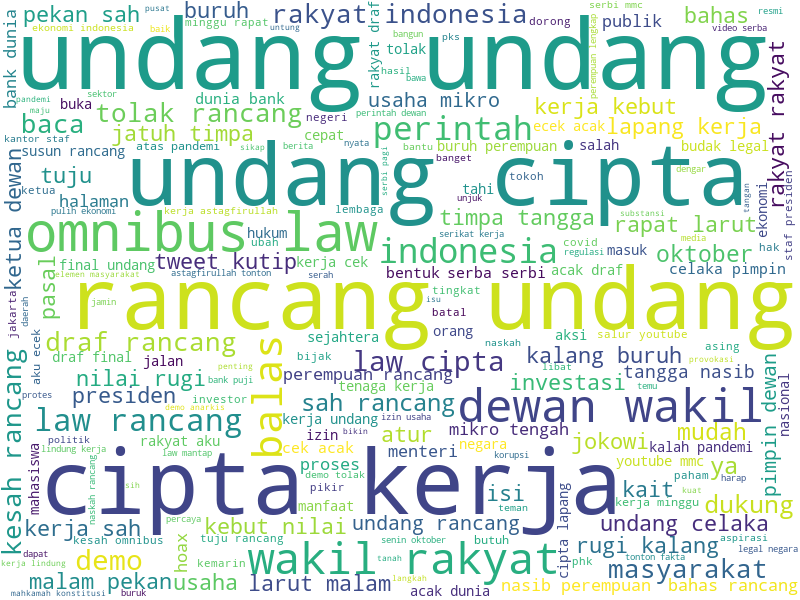
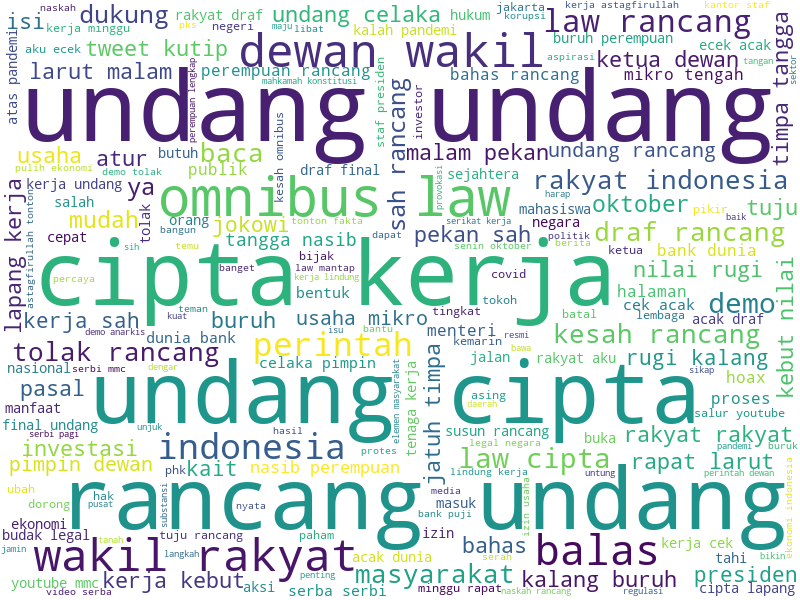
add analysis result

diff --git a/apps/templates/result.html b/apps/templates/result.html
@@ -1,0 +1,53 @@
+{% extends 'base/layout.html' %} 
+{% block content_sidebar %}
+    <!-- Main content -->
+    <section class="content">
+        <div class="row">
+            <div class="col-12">
+                <div class="card">
+                    <div class="card-body">
+                    
+                                {% set sesuai=namespace(value=0) %}
+                                {% set tdk_sesuai=namespace(value=0) %}
+                        <table id="example2" class="table table-bordered table-hover">
+                            <thead>
+                                <tr>
+                                    <th>Tweet</th>
+                                    <th class="text-center" width="60px">Analisis Manual</th>
+                                    <th class="text-center" width="60px">Analisis Sistem</th>
+                                    <th class="text-center" width="100px">Validasi</th>
+                                </tr>
+                            </thead>
+                            <tbody>
+                                {% for dt in data %}
+                                    <tr>
+                                        <td>{{dt.tweet}}</td>
+                                        <td class="text-center"> {% if dt.analysis_manual == 0 %} Negatif {% else %} Positif {% endif %} </td>
+                                        <td class="text-center"> {% if dt.analysis_system == 0 %} Negatif {% else %} Positif {% endif %} </td>
+                                        <td class="text-center">
+                                            {% if dt.analysis_system == dt.analysis_manual %}
+                                                {% set sesuai.value = sesuai.value + 1 %} 
+                                                <strong class="badge badge-success p-2"> Sesuai </strong> 
+                                            {% else %}
+                                                {% set tdk_sesuai.value = tdk_sesuai.value + 1 %} 
+                                                <strong class="badge badge-danger p-2"> Tidak Sesuai </strong> 
+                                            {% endif %} 
+                                        </td>
+                                        </td>
+                                    </tr>
+                                {% endfor %}
+                            </tbody>
+                        </table>
+                        <strong class="badge badge-success p-2"> Sesuai : {{ sesuai.value }}</strong>  
+                        <strong class="badge badge-danger p-2"> Tidak Sesuai : {{ tdk_sesuai.value }}</strong> 
+                    </div>
+                    <!-- /.card-body -->
+                </div>
+                <!-- /.card -->
+            </div>
+            <!-- /.col -->
+        </div>
+        <!-- /.row -->
+    </section>
+    <!-- /.content -->
+{% endblock content_sidebar %}

diff --git a/apps/templates/base/layout.html b/apps/templates/base/layout.html
@@ -158,11 +158,28 @@
                   </p>
                 </a>
               </li>
-              <li class="nav-item has-treeview {% if menu=='analysis' %}menu-open{% endif %}">
-                <a href="{{url_for('analysis.analysis_func')}}" class="nav-link {% if menu=='analysis' %}active{% endif %}">
-                  <i class="nav-icon fas fa-list-alt "></i>
-                  <p>Analysis</p>
+              <li class="nav-item has-treeview {% if menu=='classification' %}menu-open{% endif %}">
+                <a href="#" class="nav-link {% if menu=='classification' %}active{% endif %}">
+                  <i class="nav-icon fas fa-list-alt"></i>
+                  <p>
+                    Classification
+                    <i class="right fas fa-angle-left"></i>
+                  </p>
                 </a>
+                <ul class="nav nav-treeview">
+                  <li class="nav-item">
+                    <a href="{{url_for('classification.analysis_func')}}" class="nav-link {% if submenu=='analysis' %}active{% endif %}">
+                      <i class="far fa-circle nav-icon"></i>
+                      <p>Analysis Result</p>
+                    </a>
+                  </li>
+                  <li class="nav-item">
+                    <a href="{{url_for('classification.datatest_func')}}" class="nav-link {% if submenu=='result' %}active{% endif %}">
+                      <i class="far fa-circle nav-icon"></i>
+                      <p>Data Test Result</p>
+                    </a>
+                  </li>
+                </ul>
               </li>
             </ul>
           </nav>

diff --git a/apps/templates/analysis.html b/apps/templates/analysis.html
@@ -75,7 +75,9 @@
                     <h3 class="card-title">Word Cloud</h3>
                 </div>
                 <div class="card-body">
-                    <img src="{{url_for('static', filename='assets/img/word_cloud.png') }}" alt="" style="height:40%; text-align:center">
+                    <div style="text-align:center">
+                        <img src="{{url_for('static', filename='assets/img/word_cloud.png') }}" alt="" style="height:40%; text-align:center">
+                    </div>
                 </div>
                 <!-- /.card-body -->
             </div>
@@ -85,7 +87,7 @@
 
     <script>
         function getAnalysisProcess() {
-            const href = Flask.url_for("analysis.analysis_process");
+            const href = Flask.url_for("classification.analysis_process");
 
             Swal.fire({
                 title: 'Are you sure?',

diff --git a/apps/controllers/classification/routes.py b/apps/controllers/classification/routes.py
@@ -1,0 +1,86 @@
+from apps import db
+from flask import Blueprint, render_template, url_for, flash, redirect, request
+from flask_login import current_user, login_required
+
+from apps.controllers.classification.naivebayes import NaiveBayes
+from apps.controllers.feature.feature_tf_idf import TfidfFeature
+from apps.controllers.classification.confus import performance, cloud
+
+from apps.models.dataset import Dataset
+from apps.models.feature import Feature
+from apps.models.confusmatrix import ConfusMatrix
+from apps.models.analysisresult import AnalysisResult
+
+import pandas as pd
+import numpy as np
+from sklearn.model_selection import train_test_split
+
+
+
+classification = Blueprint('classification', __name__)
+
+
+@classification.route('/classification/analysis')
+@login_required
+def analysis_func():
+    #performance dengan confuss matrix
+    data = db.session.query(AnalysisResult)
+    df_analysis = pd.read_sql(data.statement, db.session.bind)
+    accuracy, precision, recall = performance(df_analysis)
+
+    #cek jumlah data negatif dan data positif
+    dataset = db.session.query(db.func.count(Dataset.id_dataset))
+    count_dataset = dataset.scalar()
+    count_negatif_dataset = dataset.filter(Dataset.sentimen == "0").scalar()
+    count_positif_dataset = dataset.filter(Dataset.sentimen == "1").scalar()
+
+    #cek jumlah data latih dan data uji
+    dataset = db.session.query(Dataset)
+    df = pd.read_sql(dataset.statement, db.session.bind)
+    x_train, x_test, _, _ = train_test_split(df['clean_tweet'], df['sentimen'], test_size=0.2, shuffle=False)
+
+    return render_template('analysis.html', contentheader='Analysis', menu='classification',submenu='analysis', menu_type='sidebar', accuracy=accuracy, precision=precision, recall=recall, dataset=count_dataset, dataset_positive=count_positif_dataset, dataset_negative=count_negatif_dataset, data_train=len(x_train), data_test=len(x_test))
+
+
+@classification.route('/classification/process')
+@login_required
+def analysis_process():
+    #get dataset from db
+    data = db.session.query(Dataset)
+    dataframe = pd.read_sql(data.statement, db.session.bind)
+
+    #get wordcloud from clean dataset
+    cloud(dataframe['clean_tweet'])
+
+    #split original dataset for insert data test to db
+    _, x_tweet_test, _, _ = train_test_split(dataframe['tweet'], dataframe['sentimen'], test_size=0.2, shuffle=False)
+
+    #split clean dataset for classification
+    x_train, x_test, y_train, y_test = train_test_split(dataframe['clean_tweet'], dataframe['sentimen'], test_size=0.2, shuffle=False)
+    #feature tf-idf
+    tfidf = TfidfFeature()
+    ft_train = tfidf.calc_tf_idf(x_train)
+    ft_test = tfidf.calc_tf_idf(x_test)
+
+    #classification with nbc
+    nb = NaiveBayes()
+    model = nb.fit(ft_train, y_train)
+    predict = nb.predict(ft_test)
+
+    #insert the result data into db, first delete the existing data
+    db.session.query(AnalysisResult).delete()
+    db.session.commit()
+    y_test = np.array(y_test)
+    for i, row in enumerate(x_tweet_test):
+        result = AnalysisResult(tweet=row, analysis_manual=y_test[i], analysis_system=predict[i])
+        db.session.add(result)
+        db.session.commit()
+
+    return redirect(url_for('classification.analysis_func'))
+
+
+@classification.route('/classification/datatest_result')
+@login_required
+def datatest_func():
+    data = AnalysisResult.query.all()
+    return render_template('result.html', contentheader='Data Test Result', menu='classification',submenu='result', menu_type='sidebar', data=data)

diff --git a/apps/controllers/classification/confus.py b/apps/controllers/classification/confus.py
@@ -1,0 +1,23 @@
+from wordcloud import WordCloud, STOPWORDS
+from sklearn.metrics import confusion_matrix
+
+def performance(df):
+    confus = confusion_matrix(df['analysis_manual'], df['analysis_system'])
+    tp = confus[0][0]
+    fp = confus[0][1]
+    fn = confus[1][0]
+    tn = confus[1][1]
+    accuracy = ((tp + tn)/(tp + tn + fp + fn))*100
+    precision = (tp / (tp + fp))*100
+    recall = (tp / (tp + fn))*100
+
+    print('accuracy =', accuracy)
+    print('precision =', precision)
+    print('recall =', recall)
+    return accuracy, precision, recall
+
+
+def cloud(dataframe, backgroundcolor='white', width=800, height=600):
+    wordcloud = WordCloud(stopwords=STOPWORDS, background_color=backgroundcolor,
+                          width=width, height=height).generate(' '.join(dataframe))
+    wordcloud.to_file('apps/static/assets/img/word_cloud.png')

diff --git a/apps/controllers/main/routes.py b/apps/controllers/main/routes.py
@@ -2,7 +2,8 @@ from apps import db
 
 from flask import Blueprint, render_template
 from apps.models.dataset import Dataset
-from apps.controllers.analysis.confus import performance
+from apps.models.analysisresult import AnalysisResult
+from apps.controllers.classification.confus import performance
 
 import pandas as pd
 from sklearn.model_selection import train_test_split
@@ -12,8 +13,10 @@ main = Blueprint('main', __name__)
 
 @main.route("/")
 def index():
-
-    accuracy, precision, recall = performance()
+    #performance dengan confuss matrix
+    data = db.session.query(AnalysisResult)
+    df_analysis = pd.read_sql(data.statement, db.session.bind)
+    accuracy, precision, recall = performance(df_analysis)
 
     dataset = db.session.query(db.func.count(Dataset.id_dataset))
     count_dataset = dataset.scalar()

diff --git a/apps/__init__.py b/apps/__init__.py
@@ -26,7 +26,7 @@ def create_app(config_class=Config):
     from apps.controllers.dashboards.routes import dashboards
     from apps.controllers.datasets.routes import datasets
     from apps.controllers.feature.routes import feature
-    from apps.controllers.analysis.routes import analysis
+    from apps.controllers.classification.routes import classification
     from apps.controllers.main.routes import main
     from apps.controllers.errors.handlers import errors
 
@@ -34,7 +34,7 @@ def create_app(config_class=Config):
     app.register_blueprint(dashboards)
     app.register_blueprint(datasets)
     app.register_blueprint(feature)
-    app.register_blueprint(analysis)
+    app.register_blueprint(classification)
     app.register_blueprint(main)
     app.register_blueprint(errors)
 

diff --git a/apps/controllers/feature/feature_tf_idf.py b/apps/controllers/feature/feature_tf_idf.py
@@ -73,9 +73,9 @@ class TfidfFeature(object):
             db.session.commit()
 
     def calc_tf_idf(self, data):
-        data['tweet_token'] = data['clean_tweet'].apply(self.__tokenize)
-        data['tf_dict'] = data['tweet_token'].apply(self.__calc_TF_Dict)
-        data['tfidf_dict'] = data['tf_dict'].apply(self.__calc_TF_IDF)
-        tfidf_vector = [self.__calc_TF_IDF_Vec(row) for row in data['tfidf_dict']]
+        data_token = data.apply(self.__tokenize)
+        data_tf_dict = data_token.apply(self.__calc_TF_Dict)
+        data_tfidf_dict = data_tf_dict.apply(self.__calc_TF_IDF)
+        tfidf_vector = [self.__calc_TF_IDF_Vec(row) for row in data_tfidf_dict]
         return tfidf_vector
 

diff --git a/apps/models/analysisresult.py b/apps/models/analysisresult.py
@@ -1,0 +1,16 @@
+from apps import db
+
+class AnalysisResult(db.Model):
+    __tablename__ = 'tb_anaysisresult'
+    id_anaysisresult = db.Column(db.Integer, primary_key=True)
+    tweet = db.Column(db.Text)
+    analysis_manual = db.Column(db.Integer)
+    analysis_system = db.Column(db.Integer)
+
+    def __init__(self, tweet, analysis_manual, analysis_system):
+        self.tweet = tweet
+        self.analysis_manual = analysis_manual
+        self.analysis_system = analysis_system
+
+    def __repr__(self):
+        return f"AnalysisResult('{self.tweet}','{self.analysis_manual}', '{self.analysis_system}')"
